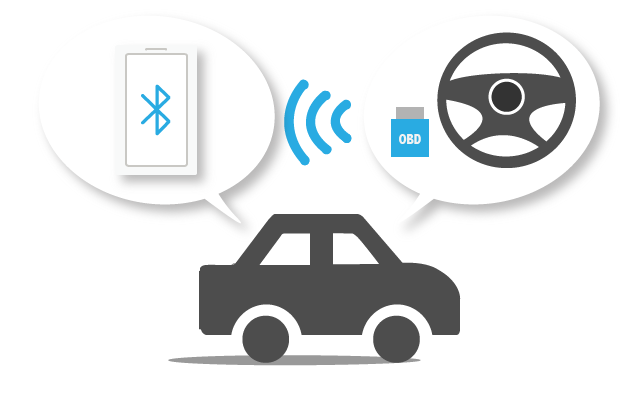
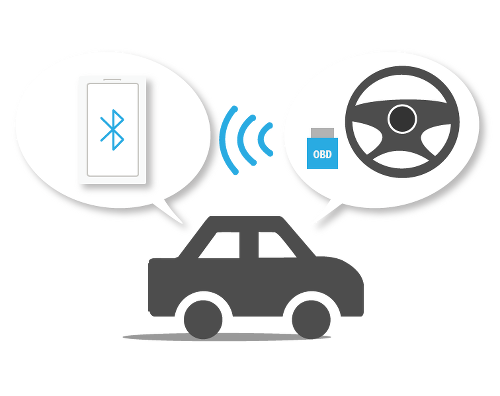
fix img size

diff --git a/autoinsight.html b/autoinsight.html
@@ -251,7 +251,10 @@
                     </div>
                     <div class="col-md-12">
                         <div class="row">
-                            <div class="col-md-3 col-md-push-2">
+                            <div class="col-md-6">
+                                <img src="img/hiw1.png" alt="">
+                            </div>
+                            <div class="col-md-4 col-md-push-1">
                                 <div class="media vertical sp-effect5">
                                     <a>
                                         <i class="media-object fa fa-bullseye fa-2x"></i>
@@ -262,9 +265,6 @@
                                     </div>
                                 </div>
                             </div>
-                            <div class="col-md-8 col-md-push-4">
-                                <img src="img/hiw1.png" alt="">
-                            </div>
                         </div>
                     </div>
                     <div class="col-md-12">
@@ -272,7 +272,7 @@
                             <div class="col-md-6">
                                 <img src="img/hiw2.png" alt="">
                             </div>
-                            <div class="col-md-3 col-md-push-1">
+                            <div class="col-md-4 col-md-push-1">
                                 <div class="media vertical sp-effect5">
                                     <a>
                                         <i class="media-object fa fa-car fa-2x"></i>
@@ -287,7 +287,10 @@
                     </div>
                     <div class="col-md-12">
                         <div class="row">
-                            <div class="col-md-3 col-md-push-2">
+                            <div class="col-md-6">
+                                <img src="img/hiw3.png" alt="">
+                            </div>
+                            <div class="col-md-4 col-md-push-1">
                                 <div class="media vertical sp-effect5">
                                     <a>
                                         <i class="media-object fa fa-tablet fa-2x"></i>
@@ -297,9 +300,6 @@
                                         <p>Easy understanding report are shown at your mobile devices and web</p>
                                     </div>
                                 </div>
-                            </div>
-                            <div class="col-md-8 col-md-push-4">
-                                <img src="img/hiw3.png" alt="">
                             </div>
                         </div>
                     </div>
